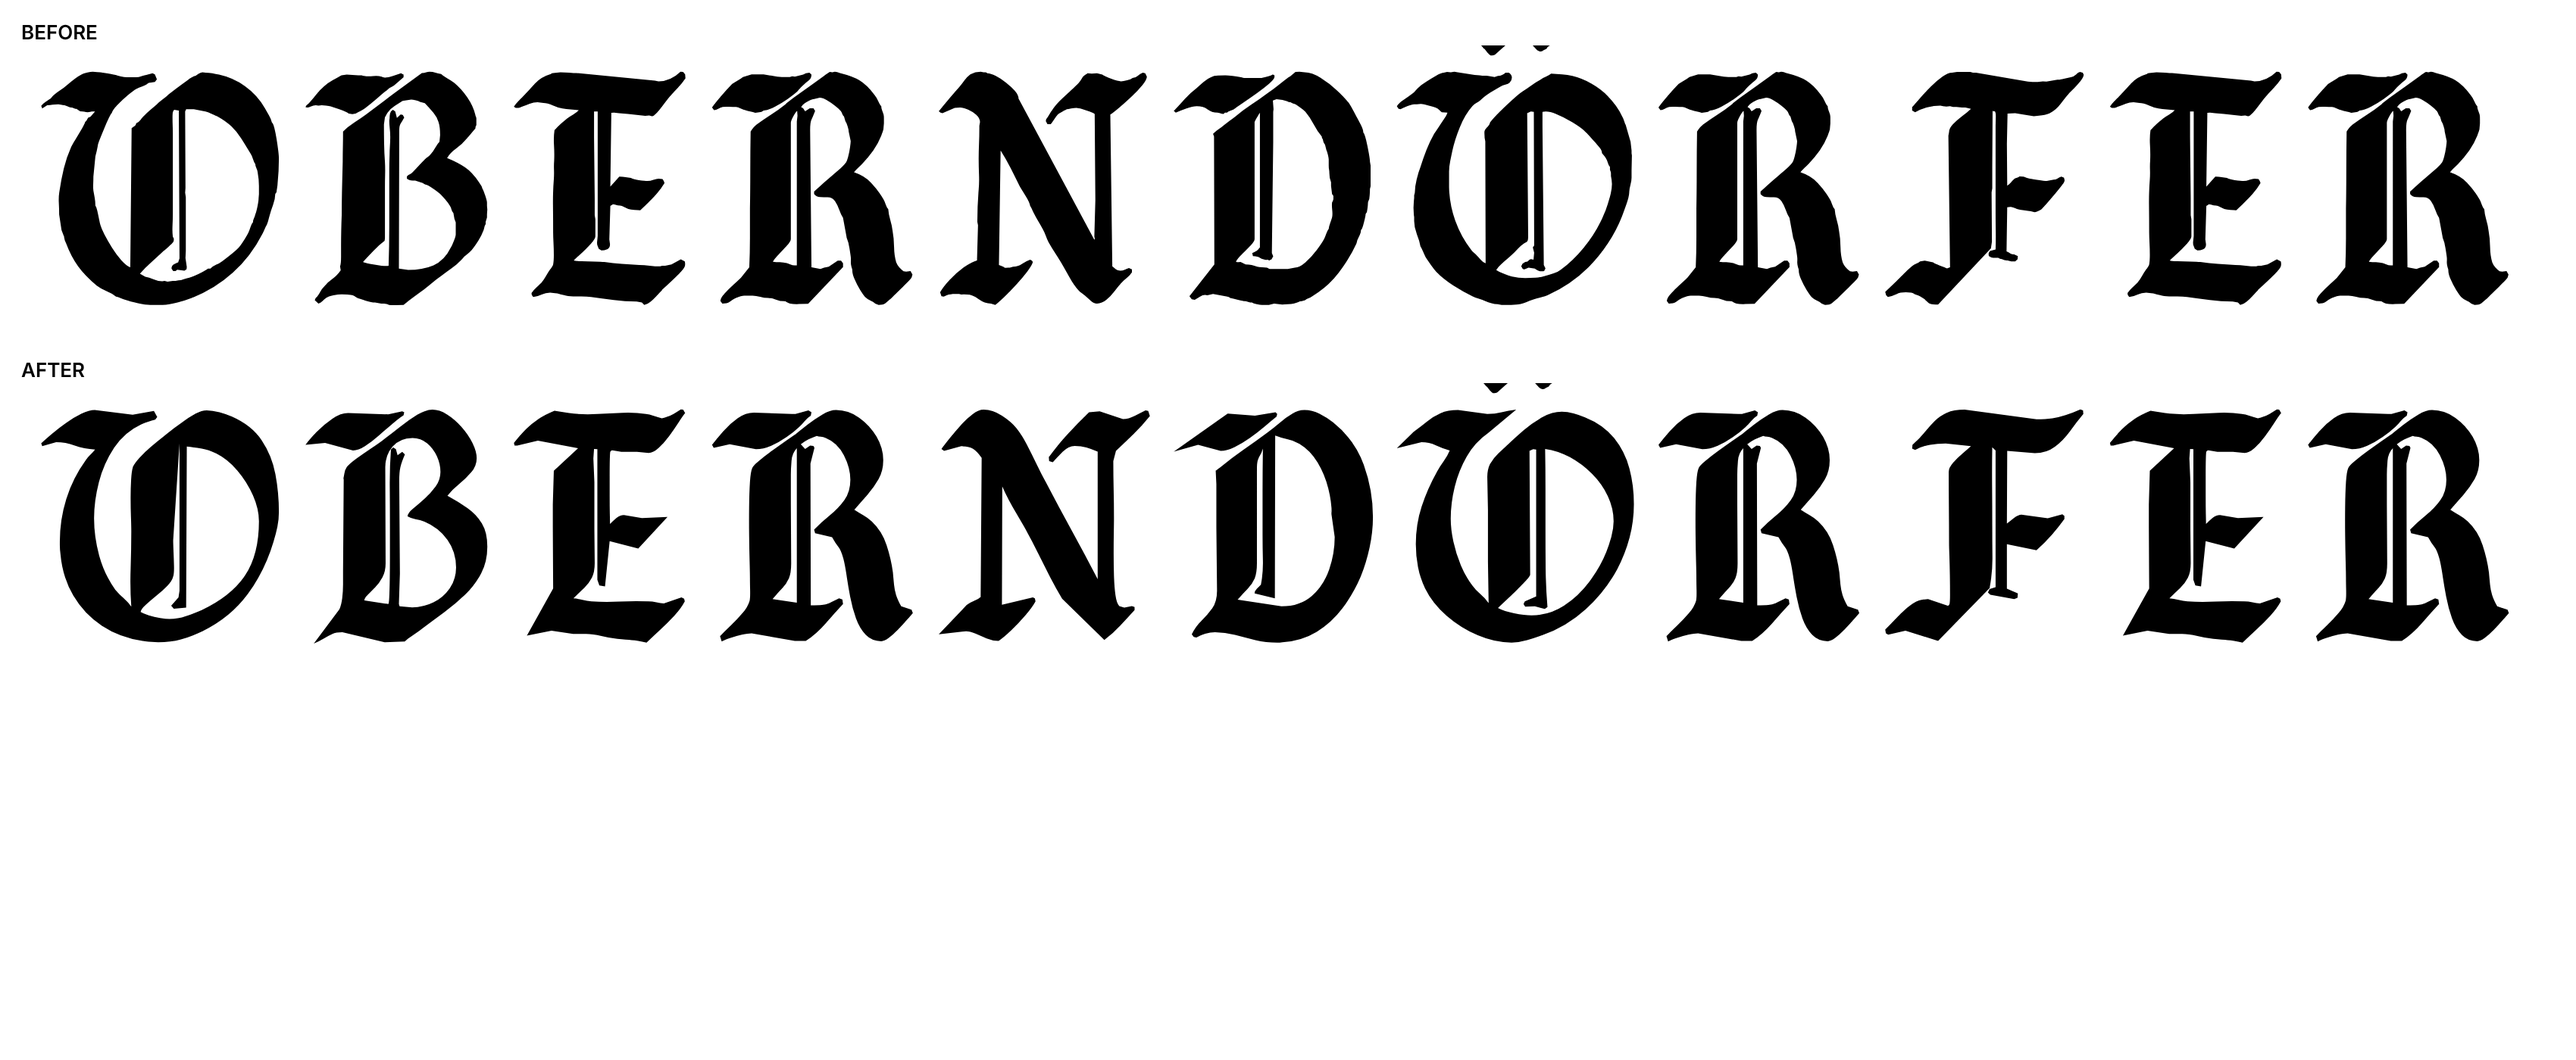
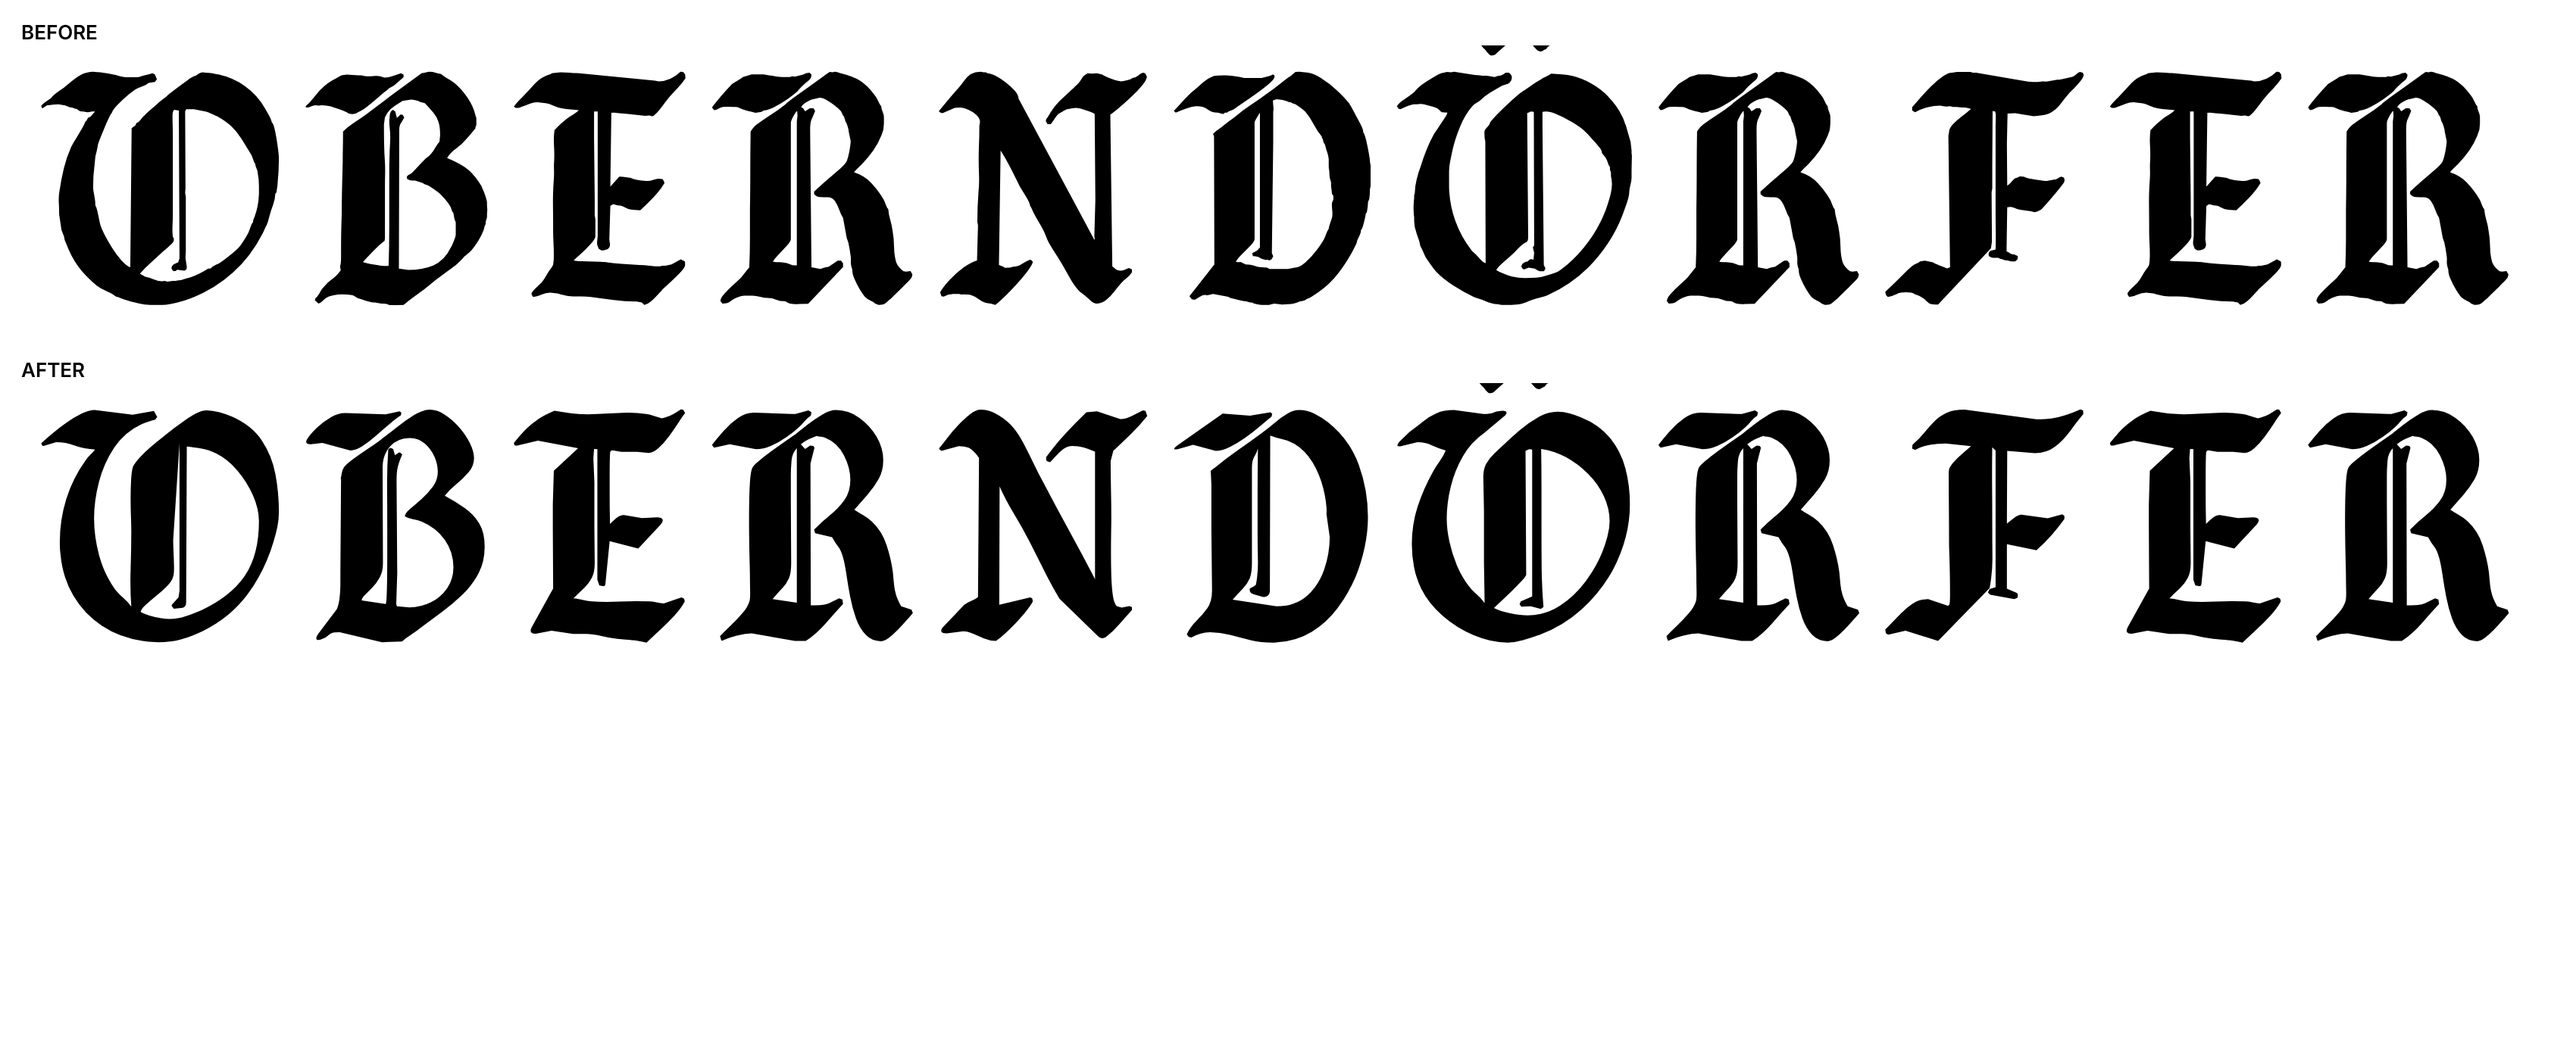
Put one corner radius on every sharp outward tip
He circled the needle-sharp spurs at the feet of the B, E and R and asked for
a font whose style carries across the whole thing. The previous pass locked
corners on purpose to protect real ones, so these needed their own fix.

polish.py fillet() applies a constant-radius fillet to every sharp outward
corner: cut-back is radius/tan(half-angle), so the sharper the spike the
further back it cuts and the more it is blunted. Inward notches are detected
by testing whether the wedge is filled and left sharp, so the ink traps in
the B and O stems survive.

Tested at radius 12, 18 and 26 (radius-test.png). 18 chosen: 12 barely moves
the spurs, 26 washes the bite out of the E and N. Font version 3.1.

Still open: letter spacing in the word, stem-width consistency between glyphs.

Claude-Session: https://claude.ai/code/session_01Suw872BgehQS8UkrxB9n1u

diff --git a/assets/oberndorfer-plate/font/polish.py b/assets/oberndorfer-plate/font/polish.py
@@ -115,3 +115,54 @@ def sharpen(start, segs, max_nick=30.0, min_arm=55.0, max_reach=130.0, min_ang=1
             c1=tuple(np.array(s[1])+d0*0.5); c2=tuple(np.array(s[2])+d1*0.5)
             out.append(('C',c1,c2,b))
     return st,out
+
+# ---- fillet: every sharp OUTWARD tip gets the same corner radius --------
+def fillet(start, segs, inside_fn, radius=18.0, max_cut=62.0, max_frac=0.40,
+           max_wedge=108.0, k=0.56):
+    n=len(segs)
+    nodes=[start]+[segs[i][-1] for i in range(n-1)]
+    P=lambda i: np.array(nodes[i],float)
+    def armA(i):
+        s=segs[(i-1)%n]
+        q=np.array(s[2] if s[0]=='C' else nodes[(i-1)%n],float); v=q-P(i)
+        return (np.array(nodes[(i-1)%n],float)-P(i)) if np.hypot(*v)<1e-6 else v
+    def armB(i):
+        s=segs[i]; q=np.array(s[1],float); v=q-P(i)
+        return (np.array(s[-1],float)-P(i)) if np.hypot(*v)<1e-6 else v
+    def slen(i): return float(np.hypot(*(np.array(segs[i][-1],float)-P(i))))
+    cuts={}
+    for i in range(n):
+        A=armA(i); B=armB(i); la=np.hypot(*A); lb=np.hypot(*B)
+        if la<1e-6 or lb<1e-6: continue
+        Ah=A/la; Bh=B/lb
+        th=math.degrees(math.acos(float(np.clip(Ah@Bh,-1,1))))
+        if th>max_wedge: continue
+        w=Ah+Bh; nw=np.hypot(*w)
+        if nw<1e-9: continue
+        if not inside_fn(P(i)+w/nw*6.0): continue      # empty wedge = ink trap, leave it
+        d=min(radius/max(math.tan(math.radians(th/2)),1e-3), max_cut,
+              max_frac*min(slen((i-1)%n), slen(i)))
+        if d<3.0: continue
+        cuts[i]=(tuple(P(i)+Ah*d), tuple(P(i)+Bh*d))
+    if not cuts: return start,segs
+    out=[]; first=None
+    for i in range(n):
+        j=(i+1)%n
+        if i in cuts:
+            p1,p2=cuts[i]; V=P(i)
+            c1=tuple(np.array(p1)+(V-np.array(p1))*k); c2=tuple(np.array(p2)+(V-np.array(p2))*k)
+            if first is None: first=p1
+            else: out.append(('L',p1))
+            out.append(('C',c1,c2,p2))
+            a=p2
+        else:
+            a=nodes[i]
+            if first is None: first=a
+        b=cuts[j][0] if j in cuts else nodes[j]
+        s=segs[i]
+        if s[0]=='L': out.append(('L',b))
+        else:
+            d0=np.array(a,float)-P(i); d1=np.array(b,float)-np.array(segs[i][-1],float)
+            out.append(('C',tuple(np.array(s[1],float)+d0*0.6),
+                            tuple(np.array(s[2],float)+d1*0.6), b))
+    return first,out

diff --git a/assets/oberndorfer-plate/font/buildfont3.py b/assets/oberndorfer-plate/font/buildfont3.py
@@ -11,13 +11,14 @@ def _cross(a,b,*r,**k):
 np.cross=_cross
 from skimage import measure
 import vectorize_lineart as vl
-from polish import smooth, flatten, sharpen
+from polish import smooth, flatten, sharpen, fillet
 from regularise import regularise
 from fontTools.fontBuilder import FontBuilder
 from fontTools.pens.ttGlyphPen import TTGlyphPen
 from fontTools.pens.cu2quPen import Cu2QuPen
 
 UPM=1000; CAP=700; SB=40; PAD=3
+RAD=float(__import__('os').environ.get('RAD','18'))
 sp=list(np.load('sprites.npy', allow_pickle=True))
 NAME='OBERNDÖRFER'
 for s in sp: s['baseoff']=s['base']-s['y0']
@@ -79,6 +80,17 @@ for ch,s in canon.items():
             ns.append(('L',T(sg[1])) if sg[0]=='L' else ('C',T(sg[1]),T(sg[2]),T(sg[3])))
         st,ns=sharpen(T(start),ns)
         tc.append((st,ns))
+    polys=[poly_of(st,sg) for st,sg in tc]
+    # round every sharp outward tip by the same radius; ink traps stay sharp
+    ftc=[]
+    for i,(st,sg) in enumerate(tc):
+        depth=sum(1 for j,q in enumerate(polys)
+                  if j!=i and abs(area_of(q))>abs(area_of(polys[i])) and inside(polys[i][0],q))
+        mat = (depth%2==0)
+        poly=polys[i]
+        ftc.append(fillet(st,sg, lambda pt,poly=poly,mat=mat: inside(tuple(pt),poly)==mat,
+                          radius=RAD))
+    tc=ftc
     polys=[poly_of(st,sg) for st,sg in tc]
     fixed=[]
     for i,(st,sg) in enumerate(tc):

diff --git a/assets/oberndorfer-plate/DIRECTION.md b/assets/oberndorfer-plate/DIRECTION.md
@@ -145,3 +145,13 @@ Read back from the artifact db (marks/current, 20 strokes). Every circle landed 
 corner-locked moving average on the traced outline, long near-horizontal/vertical runs snapped dead level,
 short bridging edges at tips replaced by the intersection of the two arms. Font v3.0.
 Still open and not fixed by this pass: letter spacing in the word, stem-width consistency between glyphs.
+
+## 2026-11-23 — corner radius v3.1 (second round of marks)
+He circled the needle-sharp spurs at the feet of B, E and R: "edges that are too sharp...
+this should be a nice smooth font that has its style going over the whole thing".
+The v3 corner-lock had deliberately preserved them, so they needed their own fix:
+font/polish.py fillet() puts the SAME radius on every sharp outward tip (constant-radius
+fillet, so the sharper the spike the further back it cuts), and leaves inward notches
+(the ink traps in the B and O stems) sharp. Tested at radius 12 / 18 / 26 — see
+font/radius-test.png; 18 chosen, 26 washes the bite out of the E and N. Font v3.1.
+Still open: letter spacing in the word, stem-width consistency between glyphs.
